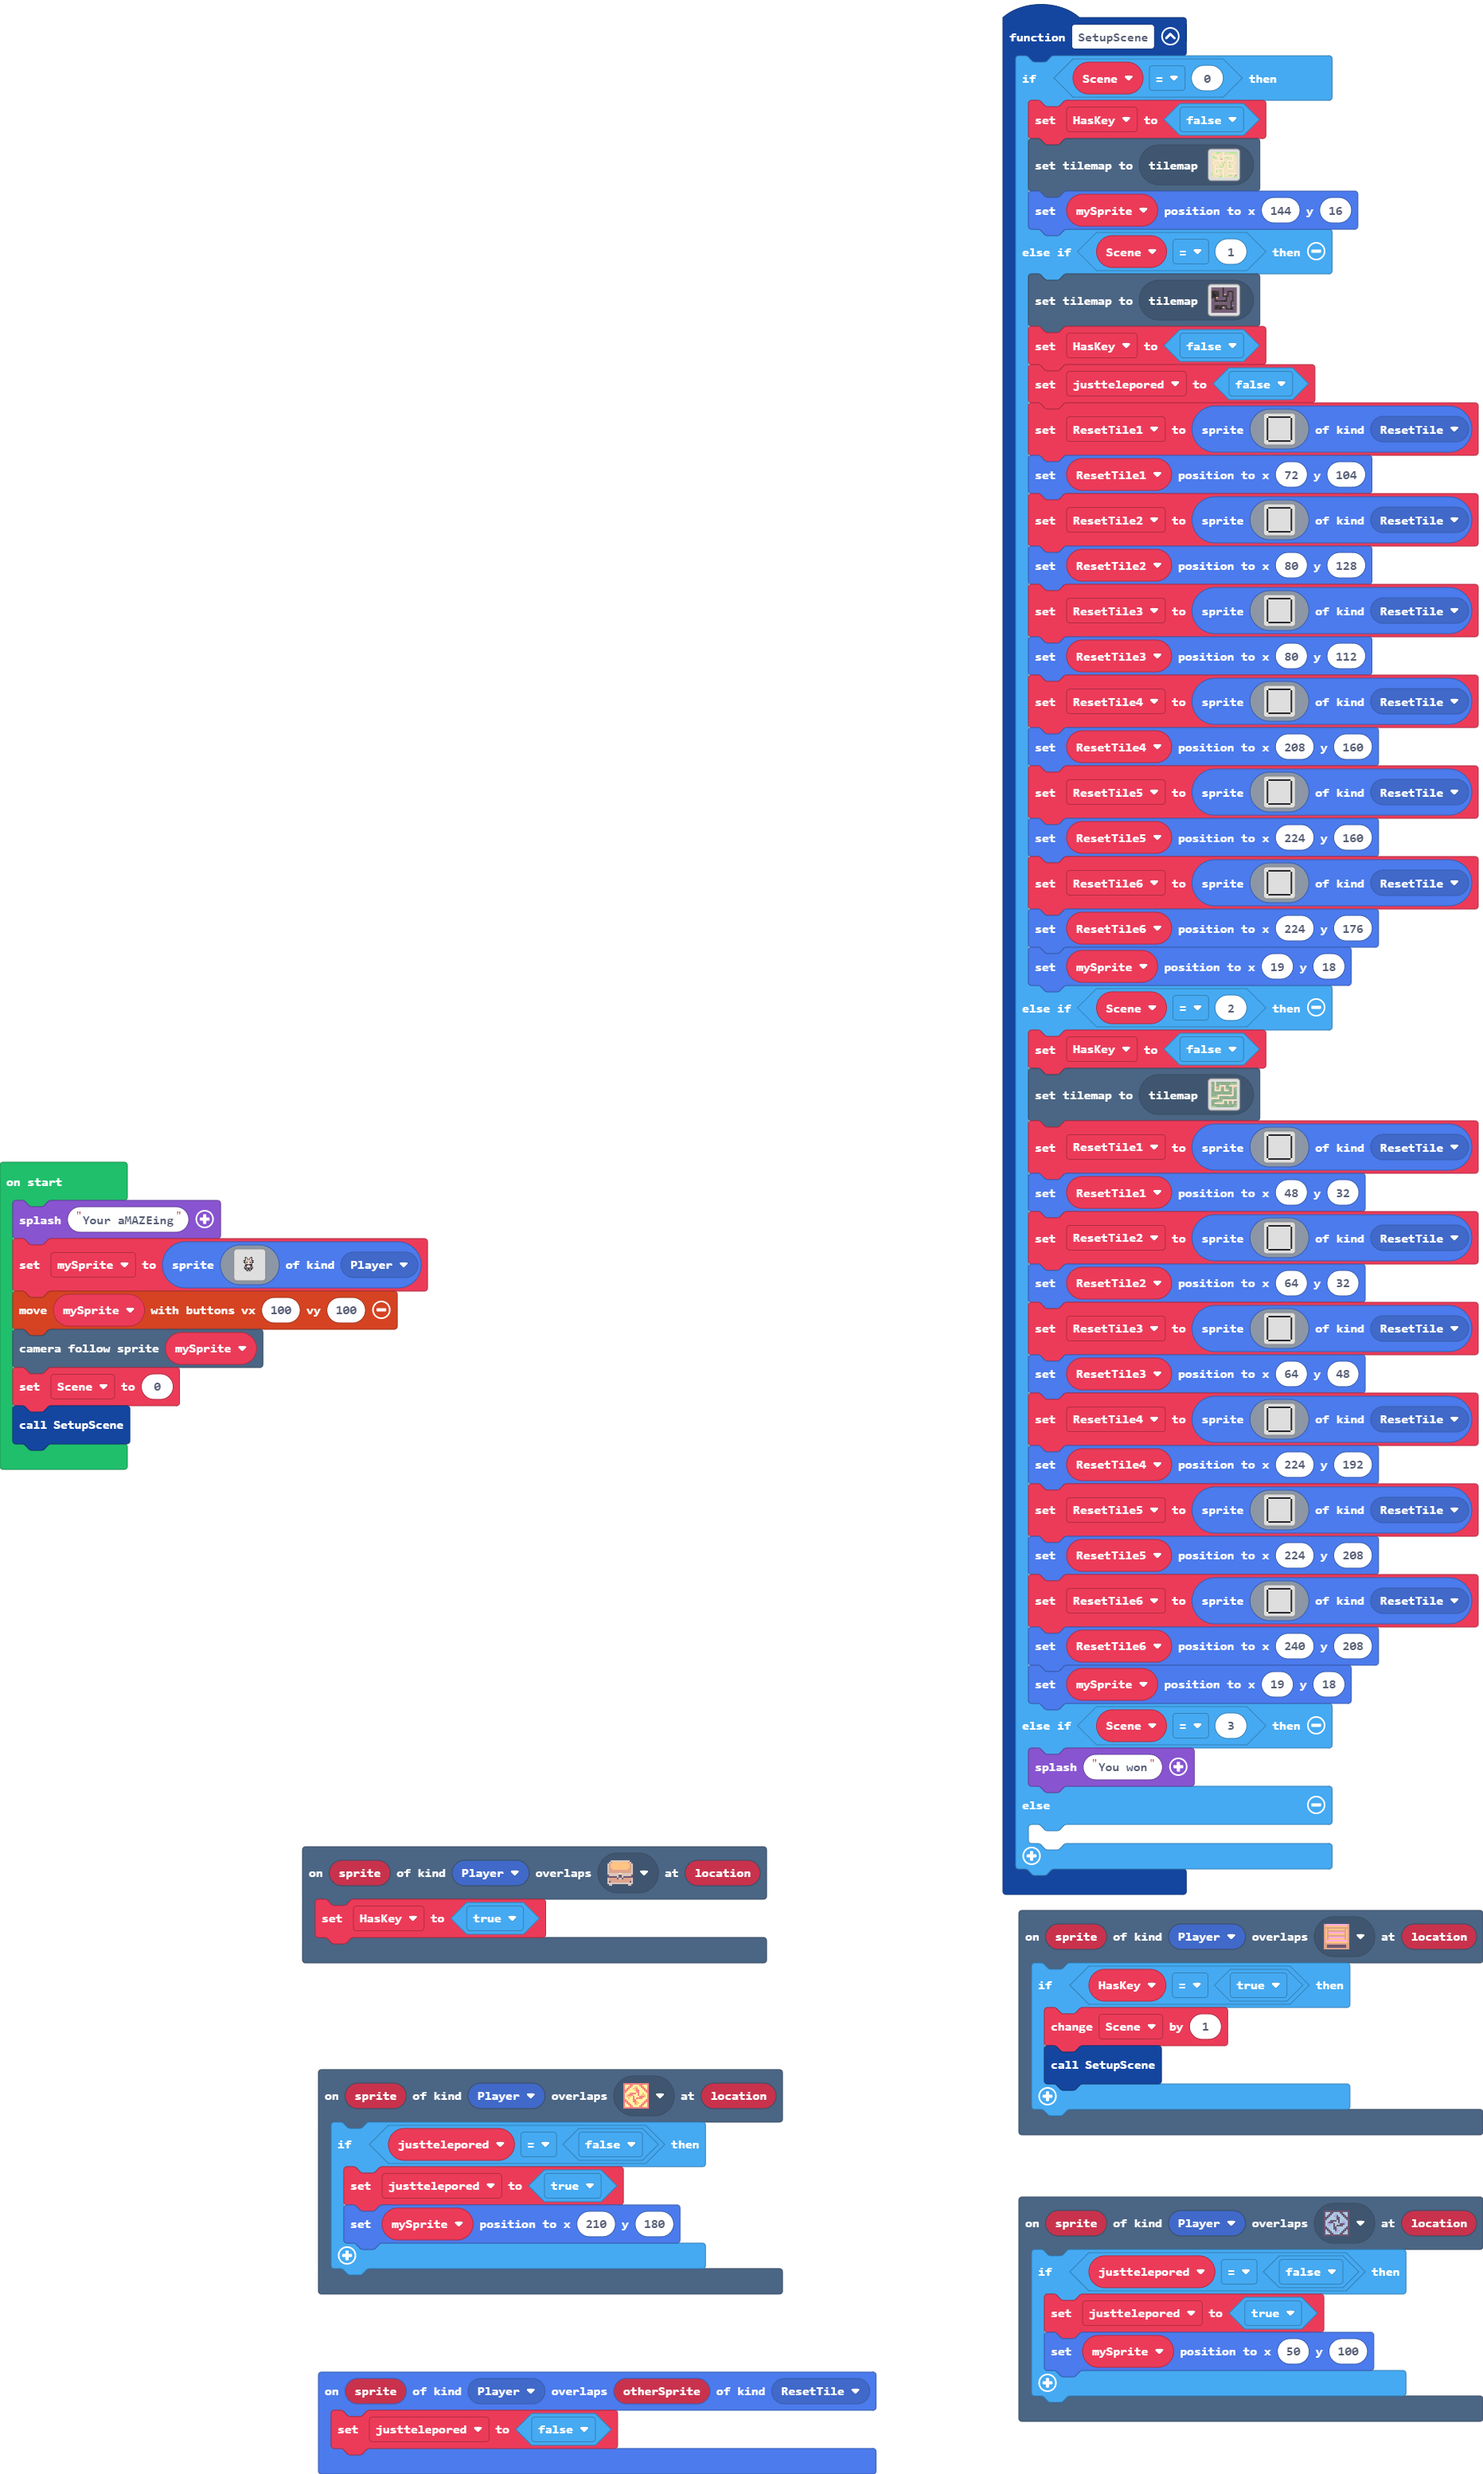
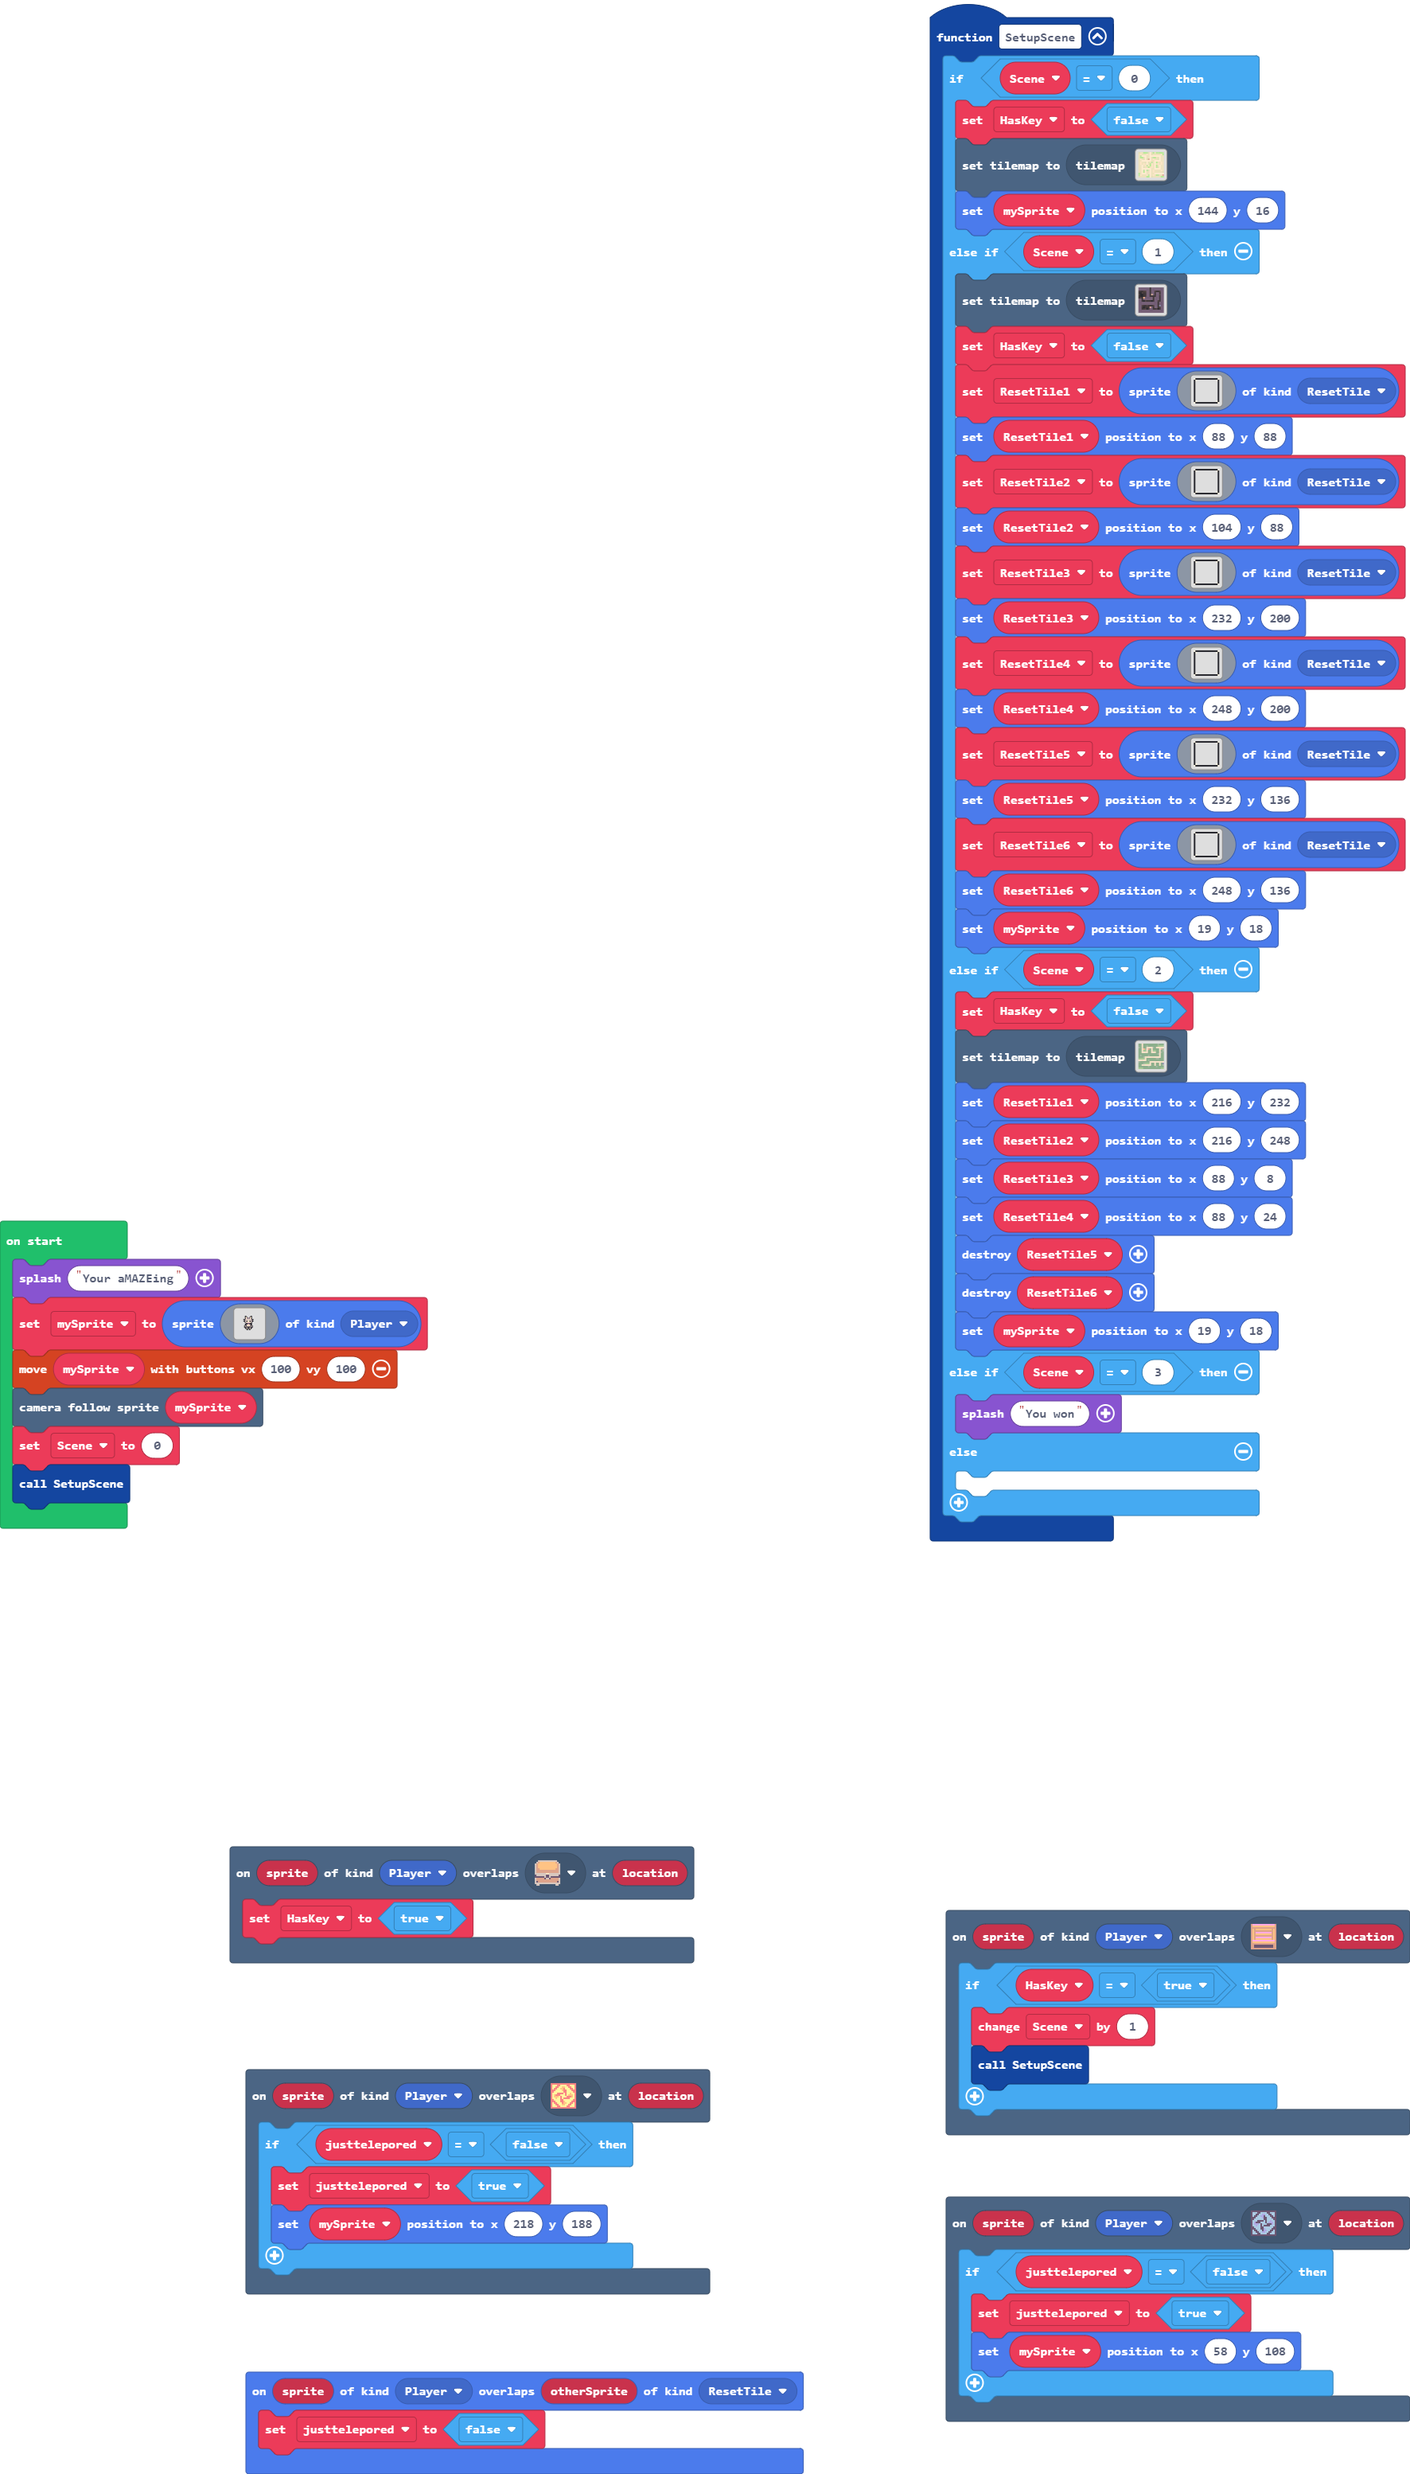
Reset tiles correctly placed

diff --git a/main.ts b/main.ts
@@ -16,7 +16,7 @@ scene.onOverlapTile(SpriteKind.Player, sprites.dungeon.chestClosed, function (sp
 scene.onOverlapTile(SpriteKind.Player, assets.tile`Teleport 1`, function (sprite, location) {
     if (justtelepored == false) {
         justtelepored = true
-        mySprite.setPosition(210, 180)
+        mySprite.setPosition(218, 188)
     }
 })
 function SetupScene () {
@@ -27,35 +27,28 @@ function SetupScene () {
     } else if (Scene == 1) {
         tiles.setCurrentTilemap(tilemap`level`)
         HasKey = false
-        justtelepored = false
         ResetTile1 = sprites.create(assets.image`ResetTile`, SpriteKind.ResetTile)
-        ResetTile1.setPosition(72, 104)
+        ResetTile1.setPosition(88, 88)
         ResetTile2 = sprites.create(assets.image`ResetTile`, SpriteKind.ResetTile)
-        ResetTile2.setPosition(80, 128)
+        ResetTile2.setPosition(104, 88)
         ResetTile3 = sprites.create(assets.image`ResetTile`, SpriteKind.ResetTile)
-        ResetTile3.setPosition(80, 112)
+        ResetTile3.setPosition(232, 200)
         ResetTile4 = sprites.create(assets.image`ResetTile`, SpriteKind.ResetTile)
-        ResetTile4.setPosition(208, 160)
+        ResetTile4.setPosition(248, 200)
         ResetTile5 = sprites.create(assets.image`ResetTile`, SpriteKind.ResetTile)
-        ResetTile5.setPosition(224, 160)
+        ResetTile5.setPosition(232, 136)
         ResetTile6 = sprites.create(assets.image`ResetTile`, SpriteKind.ResetTile)
-        ResetTile6.setPosition(224, 176)
+        ResetTile6.setPosition(248, 136)
         mySprite.setPosition(19, 18)
     } else if (Scene == 2) {
         HasKey = false
         tiles.setCurrentTilemap(tilemap`level2`)
-        ResetTile1 = sprites.create(assets.image`ResetTile`, SpriteKind.ResetTile)
-        ResetTile1.setPosition(48, 32)
-        ResetTile2 = sprites.create(assets.image`ResetTile`, SpriteKind.ResetTile)
-        ResetTile2.setPosition(64, 32)
-        ResetTile3 = sprites.create(assets.image`ResetTile`, SpriteKind.ResetTile)
-        ResetTile3.setPosition(64, 48)
-        ResetTile4 = sprites.create(assets.image`ResetTile`, SpriteKind.ResetTile)
-        ResetTile4.setPosition(224, 192)
-        ResetTile5 = sprites.create(assets.image`ResetTile`, SpriteKind.ResetTile)
-        ResetTile5.setPosition(224, 208)
-        ResetTile6 = sprites.create(assets.image`ResetTile`, SpriteKind.ResetTile)
-        ResetTile6.setPosition(240, 208)
+        ResetTile1.setPosition(216, 232)
+        ResetTile2.setPosition(216, 248)
+        ResetTile3.setPosition(88, 8)
+        ResetTile4.setPosition(88, 24)
+        sprites.destroy(ResetTile5)
+        sprites.destroy(ResetTile6)
         mySprite.setPosition(19, 18)
     } else if (Scene == 3) {
         game.splash("You won")
@@ -66,7 +59,7 @@ function SetupScene () {
 scene.onOverlapTile(SpriteKind.Player, assets.tile`Teleport 2`, function (sprite, location) {
     if (justtelepored == false) {
         justtelepored = true
-        mySprite.setPosition(50, 100)
+        mySprite.setPosition(58, 108)
     }
 })
 let ResetTile6: Sprite = null

diff --git a/tilemap.g.ts b/tilemap.g.ts
@@ -389,6 +389,44 @@ namespace myTiles {
 . . . . . . . . . . . . . . . . 
 . . . . . . . . . . . . . . . . 
 `, [myTiles.transparency16], TileScale.Sixteen);
+            case "level21":
+            case "level21":return tiles.createTilemap(hex`1000100000000000000000000000000000000000000000000000000000000000000000000000000000000000000000000000000000000000000000000000000000000000000000000000000000000000000000000000000000000000000000000000000000000000000000000000000000000000000000000000000000000000000000000000000000000000000000000000000000000000000000000000000000000000000000000000000000000000000000000000000000000000000000000000000000000000000000000000000000000000000000000000000000000000000000000000000000000000000000000000000000000000000000000000000000000000`, img`
+. . . . . . . . . . . . . . . . 
+. . . . . . . . . . . . . . . . 
+. . . . . . . . . . . . . . . . 
+. . . . . . . . . . . . . . . . 
+. . . . . . . . . . . . . . . . 
+. . . . . . . . . . . . . . . . 
+. . . . . . . . . . . . . . . . 
+. . . . . . . . . . . . . . . . 
+. . . . . . . . . . . . . . . . 
+. . . . . . . . . . . . . . . . 
+. . . . . . . . . . . . . . . . 
+. . . . . . . . . . . . . . . . 
+. . . . . . . . . . . . . . . . 
+. . . . . . . . . . . . . . . . 
+. . . . . . . . . . . . . . . . 
+. . . . . . . . . . . . . . . . 
+`, [myTiles.transparency16], TileScale.Sixteen);
+            case "level22":
+            case "level22":return tiles.createTilemap(hex`1000100000000000000000000000000000000000000000000000000000000000000000000000000000000000000000000000000000000000000000000000000000000000000000000000000000000000000000000000000000000000000000000000000000000000000000000000000000000000000000000000000000000000000000000000000000000000000000000000000000000000000000000000000000000000000000000000000000000000000000000000000000000000000000000000000000000000000000000000000000000000000000000000000000000000000000000000000000000000000000000000000000000000000000000000000000000000`, img`
+. . . . . . . . . . . . . . . . 
+. . . . . . . . . . . . . . . . 
+. . . . . . . . . . . . . . . . 
+. . . . . . . . . . . . . . . . 
+. . . . . . . . . . . . . . . . 
+. . . . . . . . . . . . . . . . 
+. . . . . . . . . . . . . . . . 
+. . . . . . . . . . . . . . . . 
+. . . . . . . . . . . . . . . . 
+. . . . . . . . . . . . . . . . 
+. . . . . . . . . . . . . . . . 
+. . . . . . . . . . . . . . . . 
+. . . . . . . . . . . . . . . . 
+. . . . . . . . . . . . . . . . 
+. . . . . . . . . . . . . . . . 
+. . . . . . . . . . . . . . . . 
+`, [myTiles.transparency16], TileScale.Sixteen);
         }
         return null;
     })
